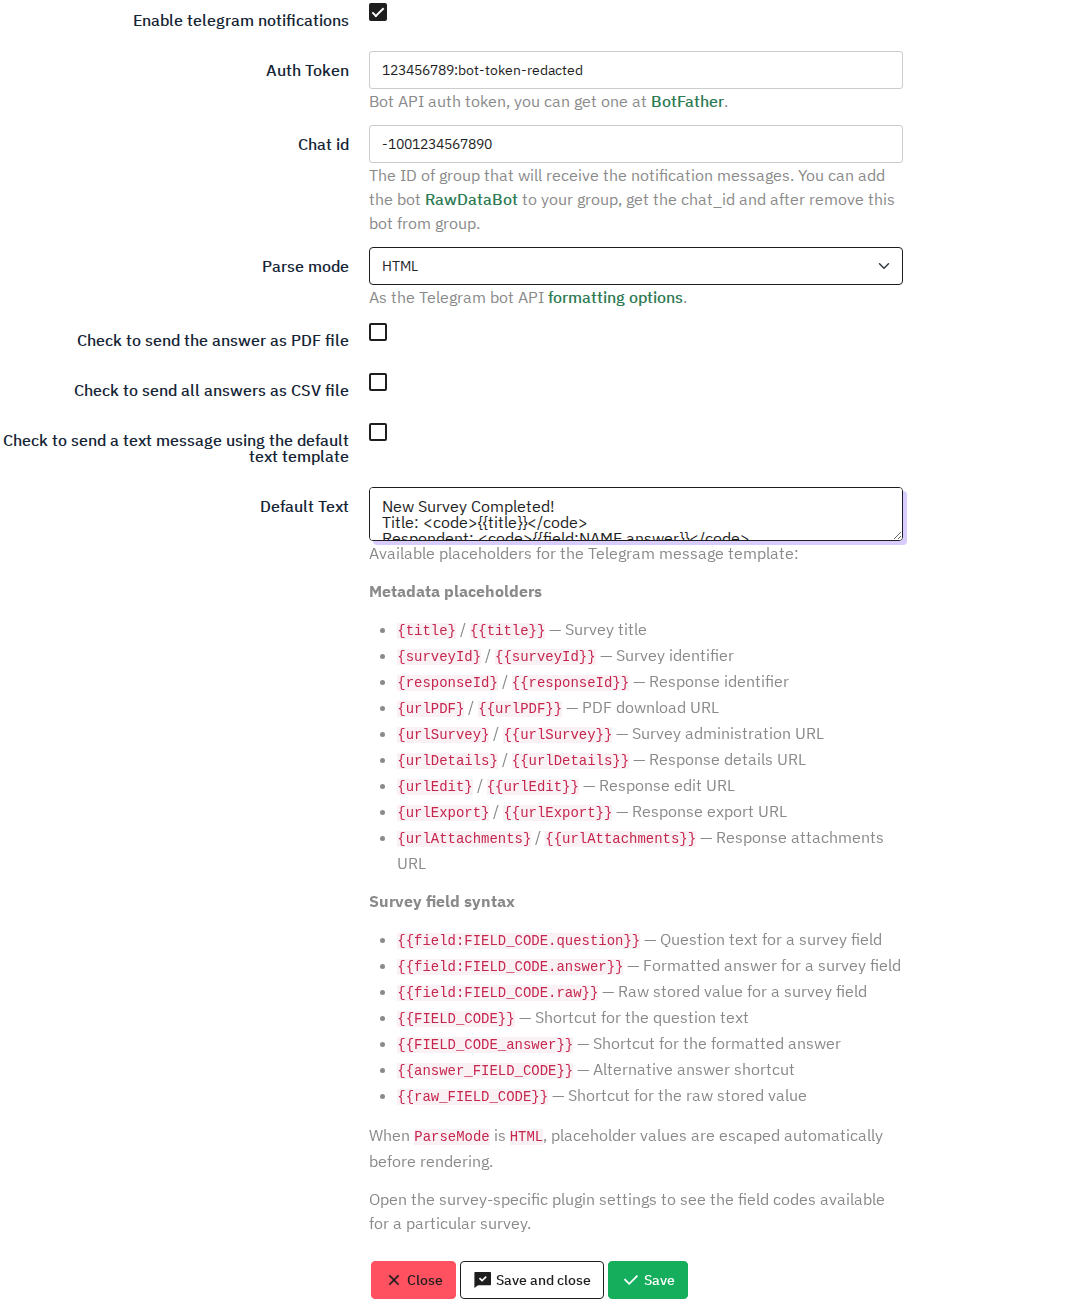
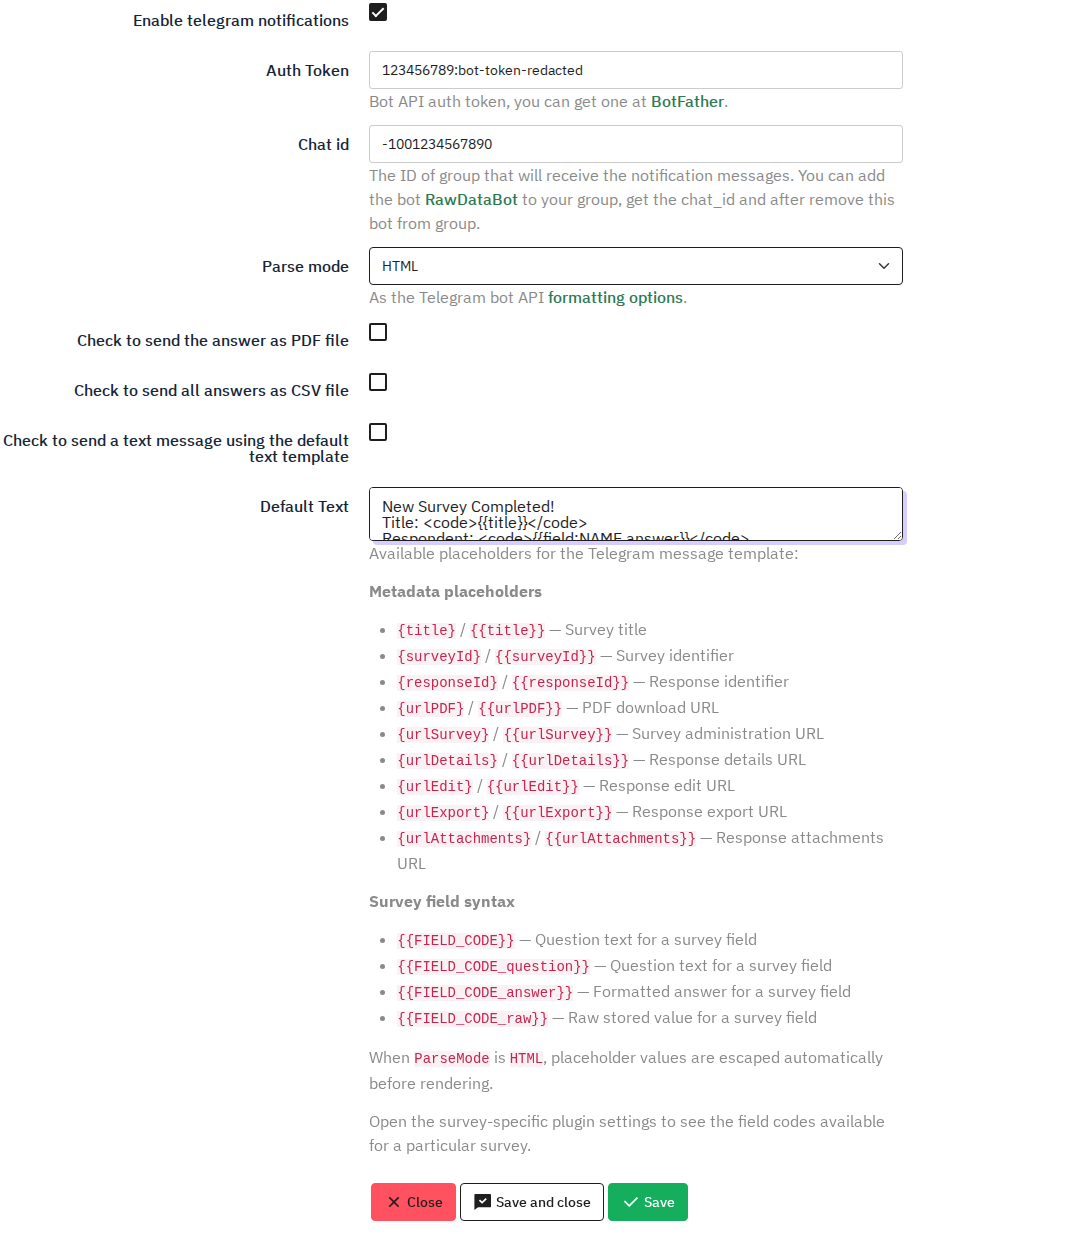
Fix survey field placeholders and CSV export without tokens

Changed region(s): [[0.0, 0.0308, 0.8438, 1.0], [0.125, 0.0, 0.3125, 0.0616]]

diff --git a/src/Plugin/DefaultTextHelpBuilder.php b/src/Plugin/DefaultTextHelpBuilder.php
@@ -84,13 +84,10 @@ class DefaultTextHelpBuilder
     protected function buildFieldSyntaxHelpItems(): string
     {
         $placeholders = [
-            ['token' => '{{field:FIELD_CODE.question}}', 'description' => 'Question text for a survey field'],
-            ['token' => '{{field:FIELD_CODE.answer}}', 'description' => 'Formatted answer for a survey field'],
-            ['token' => '{{field:FIELD_CODE.raw}}', 'description' => 'Raw stored value for a survey field'],
-            ['token' => '{{FIELD_CODE}}', 'description' => 'Shortcut for the question text'],
-            ['token' => '{{FIELD_CODE_answer}}', 'description' => 'Shortcut for the formatted answer'],
-            ['token' => '{{answer_FIELD_CODE}}', 'description' => 'Alternative answer shortcut'],
-            ['token' => '{{raw_FIELD_CODE}}', 'description' => 'Shortcut for the raw stored value'],
+            ['token' => '{{FIELD_CODE}}', 'description' => 'Question text for a survey field'],
+            ['token' => '{{FIELD_CODE_question}}', 'description' => 'Question text for a survey field'],
+            ['token' => '{{FIELD_CODE_answer}}', 'description' => 'Formatted answer for a survey field'],
+            ['token' => '{{FIELD_CODE_raw}}', 'description' => 'Raw stored value for a survey field'],
         ];
 
         $items = [];

diff --git a/tests/Unit/Survey/SurveyFieldPlaceholderCatalogProviderTest.php b/tests/Unit/Survey/SurveyFieldPlaceholderCatalogProviderTest.php
@@ -30,11 +30,13 @@ class SurveyFieldPlaceholderCatalogProviderTest extends TestCase
     {
         \Survey::$findByPkHandler = static fn (int $id) => (object) ['language' => 'pt-BR'];
         \FieldMapRuntimeMock::$createFieldMapHandler = static fn ($survey, $style, $full, $flatten, $language): array => [
-            '12345X1X1' => ['name' => 'email-field'],
-            '12345X1X10' => ['name' => 'duplicate-email-field'],
-            '12345X1X2' => ['name' => 'name-field'],
-            '12345X1X3' => ['name' => 'fallback-label-field'],
-            '12345X1X4' => ['name' => 'blank-code-field'],
+            '12345X1X1' => ['name' => 'email-field', 'qid' => 1],
+            '12345X1X10' => ['name' => 'duplicate-email-field', 'qid' => 1],
+            '12345X1X2' => ['name' => 'name-field', 'qid' => 2],
+            '12345X1X3' => ['name' => 'fallback-label-field', 'qid' => 3],
+            '12345X1X4' => ['name' => 'blank-code-field', 'qid' => 4],
+            'id' => ['name' => 'response-id'],
+            'datestamp' => ['name' => 'response-datestamp'],
         ];
         \viewHelper::$getFieldCodeHandler = static function (array $field, array $options): string {
             switch ($field['name']) {

diff --git a/src/Plugin/LSTelegramNotifyPlugin.php b/src/Plugin/LSTelegramNotifyPlugin.php
@@ -686,8 +686,16 @@ JS,
 		$oFormattingOptions->responseMinRecord = 1;
 		$oFormattingOptions->responseMaxRecord = $maxId;
 		$aFields = array_keys(\createFieldMap($survey, 'full', true, false, $survey->language));
-		$aTokenFields = array('tid','participant_id','firstname','lastname','email','emailstatus','language','blacklisted','sent','remindersent','remindercount','completed','usesleft','validfrom','validuntil','mpid');
-		$oFormattingOptions->selectedColumns = array_merge($aFields, $aTokenFields, array_keys($survey->tokenAttributes));
+		$oFormattingOptions->selectedColumns = $aFields;
+
+		if ($survey->hasTokensTable) {
+			$aTokenFields = array('tid','participant_id','firstname','lastname','email','emailstatus','language','blacklisted','sent','remindersent','remindercount','completed','usesleft','validfrom','validuntil','mpid');
+			$oFormattingOptions->selectedColumns = array_merge(
+				$aFields,
+				$aTokenFields,
+				array_keys($survey->tokenAttributes)
+			);
+		}
 		$oFormattingOptions->responseCompletionState = 'all';
 		$oFormattingOptions->headingFormat = 'full';
 		$oFormattingOptions->answerFormat = 'long';

diff --git a/tests/Unit/Plugin/LSTelegramNotifyPluginTest.php b/tests/Unit/Plugin/LSTelegramNotifyPluginTest.php
@@ -35,7 +35,7 @@ class LSTelegramNotifyPluginTest extends TestCase
         );
 
         $this->assertStringContainsString(
-            '{{field:FIELD_CODE.answer}}',
+            '{{FIELD_CODE_answer}}',
             $plugin->getSettingsDefinition()['DefaultText']['help']
         );
         $this->assertStringContainsString(
@@ -329,8 +329,8 @@ class LSTelegramNotifyPluginTest extends TestCase
 
         \Survey::$findByPkHandler = static fn (int $id) => (object) ['language' => 'pt-BR'];
         \FieldMapRuntimeMock::$createFieldMapHandler = static fn ($survey, $style, $full, $flatten, $language): array => [
-            '12345X1X1' => ['name' => 'email-field'],
-            '12345X1X2' => ['name' => 'name-field'],
+            '12345X1X1' => ['name' => 'email-field', 'qid' => 1],
+            '12345X1X2' => ['name' => 'name-field', 'qid' => 2],
         ];
         \viewHelper::$getFieldCodeHandler = static function (array $field, array $options): string {
             return $field['name'] === 'email-field' ? 'CONTATO[EMAIL]' : 'NOME';

diff --git a/src/Survey/SurveyFieldPlaceholderCatalogProvider.php b/src/Survey/SurveyFieldPlaceholderCatalogProvider.php
@@ -25,6 +25,10 @@ class SurveyFieldPlaceholderCatalogProvider
         $fieldCatalog = [];
 
         foreach ($fieldMap as $fieldName => $field) {
+            if (empty($field['qid'])) {
+                continue;
+            }
+
             $fieldCode = trim((string) \viewHelper::getFieldCode($field, ['separator' => ['[', ']']]));
 
             if ($fieldCode === '') {
